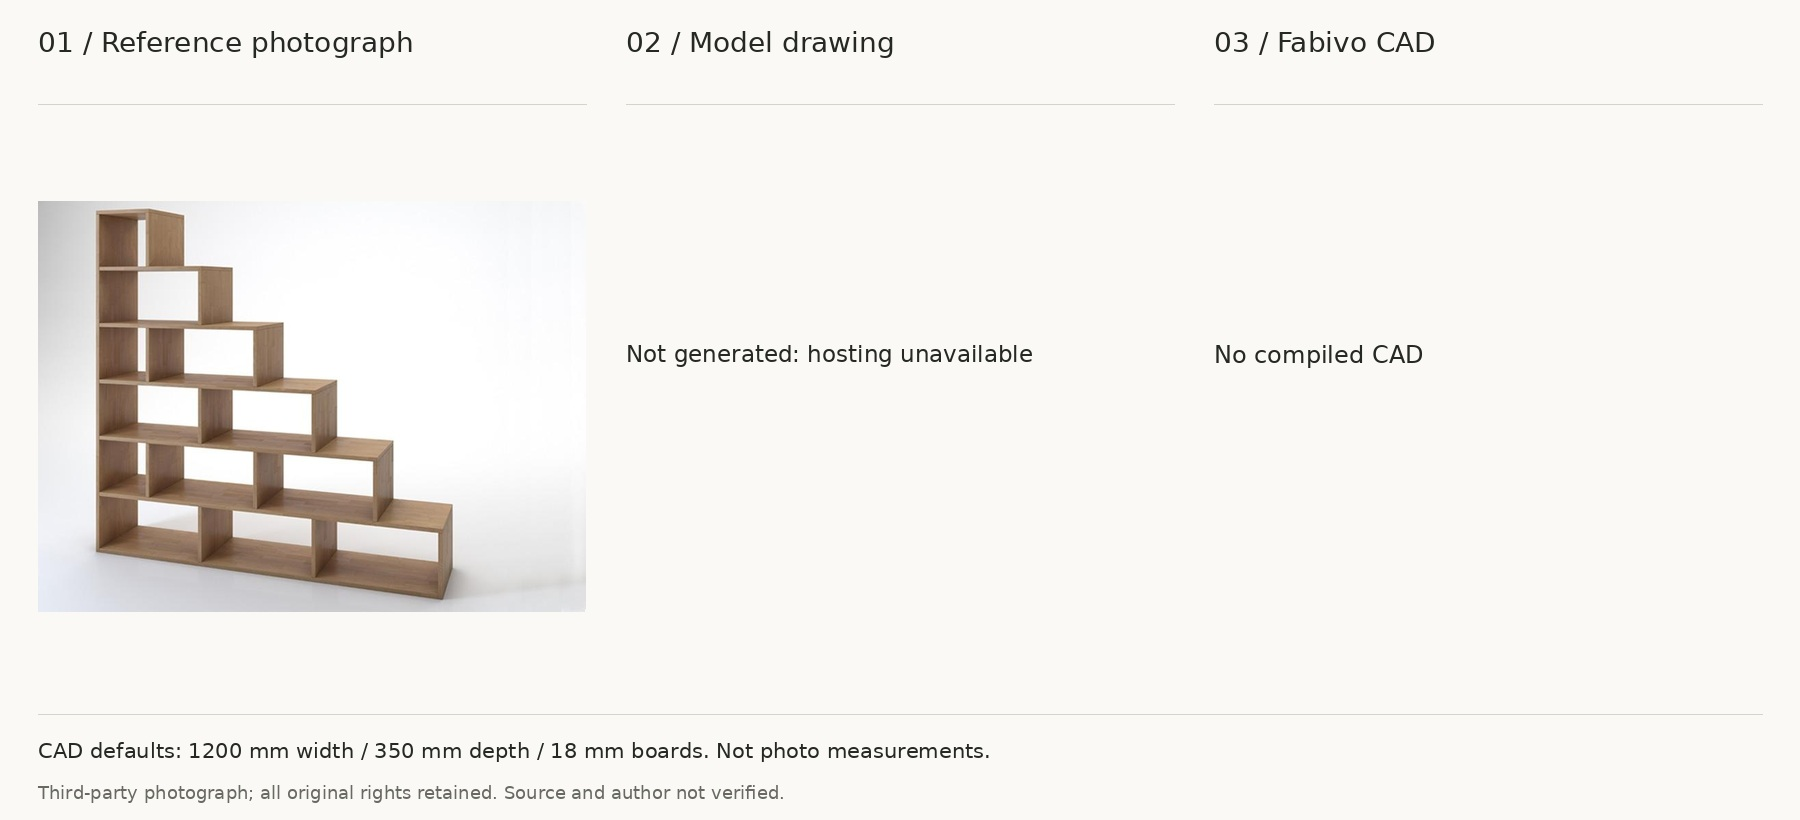
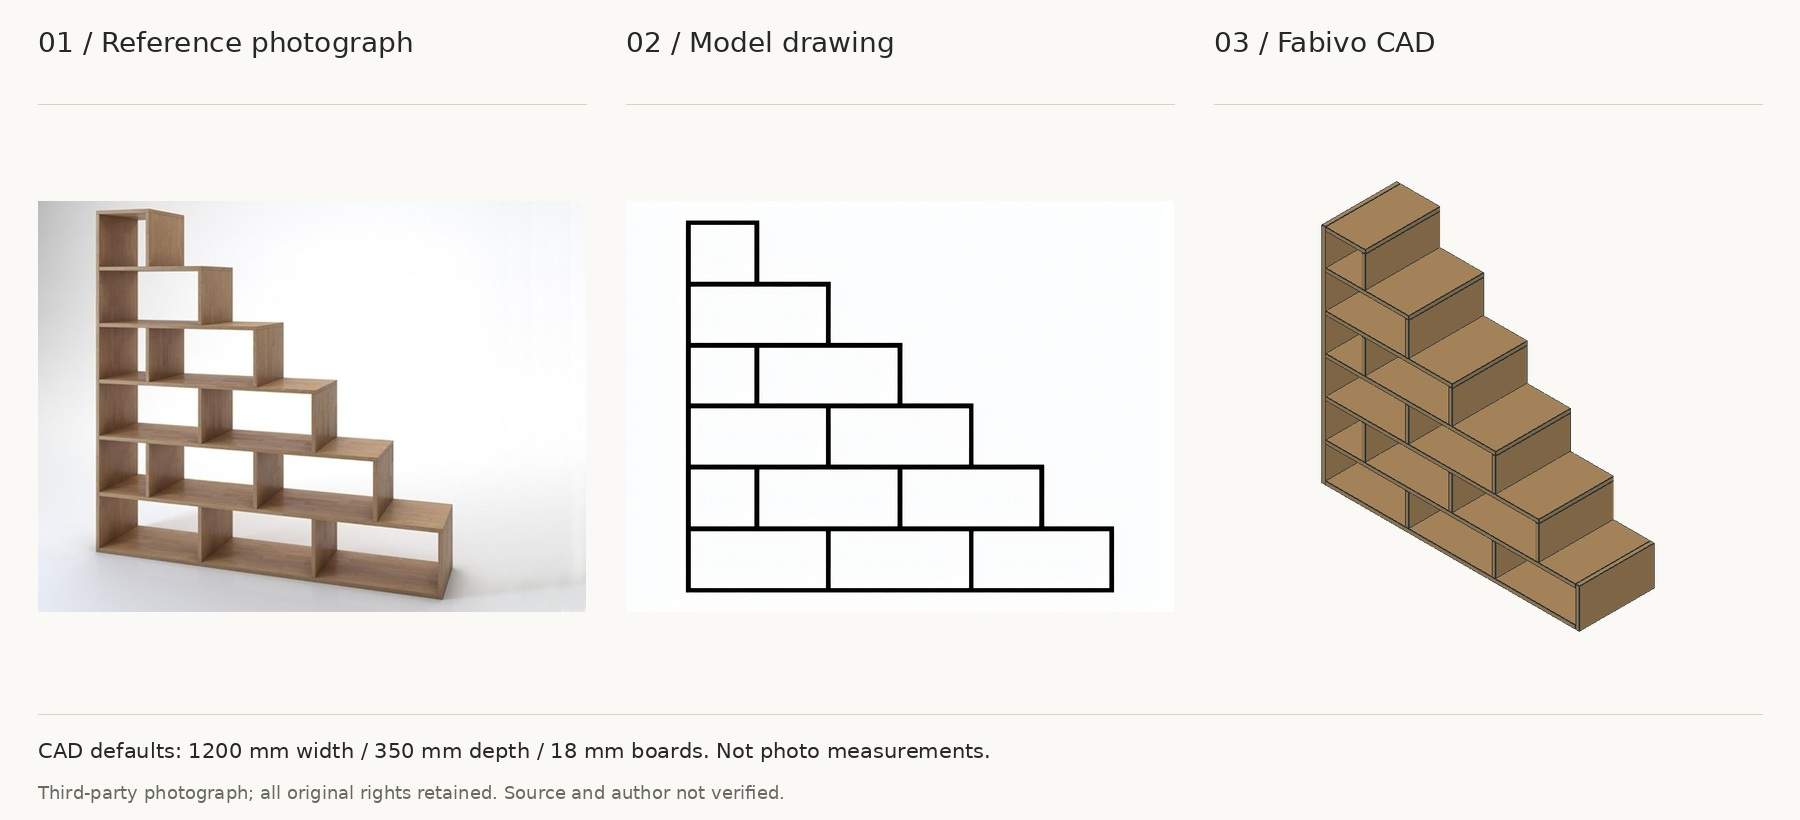
Complete six m11 examples with real CAD and preserve gallery exclusions

Changed region(s): [[0.6844, 0.2134, 0.9333, 0.7622], [0.3422, 0.3963, 0.6222, 0.7317], [0.3733, 0.2439, 0.4667, 0.3659]]

diff --git a/scripts/build_static_gallery.py b/scripts/build_static_gallery.py
@@ -42,7 +42,7 @@ def main():
 </style></head><body><main>
 <header><div class="eyebrow">Fabivo / image-to-CAD research</div><h1>From furniture photos to editable boards</h1><p>Predict a structural drawing. Read its boards. Compile actual CAD panels.</p><nav aria-label="Project links"><a href="https://github.com/Superpapotas/fabivo-boards">Code and experiments</a><a href="https://huggingface.co/Superpapotas1/fabivo-boards-image-lora-m11">m11 weights</a><a href="https://huggingface.co/datasets/Superpapotas1/fabivo-furniture-boards">Annotations</a><a href="https://fabivo.com">Fabivo</a></nav><p class="status">Saved results / no live inference / no GPU calls</p></header>
 <section aria-labelledby="compare-heading"><h2 id="compare-heading">GPT Image 2.5 vs Fabivo m11</h2><p>Two GPT image edits versus one direct fine-tuned drawing. Both real drawings enter the same Fabivo reader; no boards are manually repaired.</p><label for="case">Reference photograph</label><select id="case"><option value="boxed-centre-photo">Wall display with projecting centre box</option><option value="photo-built-in-display">Built-in display with unequal openings</option><option value="photo-staggered-console" selected>White staggered console</option></select><figure><a id="full" href="assets/gpt-comparison/photo-staggered-console.jpg" target="_blank" rel="noopener" aria-label="Open full-size comparison"><img id="comparison" src="assets/gpt-comparison/photo-staggered-console.jpg" width="1800" height="1250" alt="White staggered console: reference photograph, GPT Image 2.5 drawing and compiled CAD, and m11 drawing and compiled CAD."></a><figcaption id="caption" aria-live="polite">White staggered console. GPT uses a saved rerun after the first provider response failed. Select the figure to view it at full size.</figcaption></figure><p class="notice">Illustrative archived cases, not a controlled benchmark. Prompts, resolution and budgets differ. GPT: Azure gpt-image-2.5-sunburst, low quality, frontal candidate 1, two-step-v5. m11: published rank64 3000-EMA, Turbo10, 768 pixels, seed 0. CAD defaults: 1200 mm width, 350 mm depth, 18 mm boards. Not measured dimensions or a safety-approved cutting plan.</p><p><a href="https://github.com/Superpapotas/fabivo-boards/blob/main/docs/gpt-image-comparison.md">All three cases and exact protocol</a></p></section>
-<section aria-labelledby="examples-heading"><h2 id="examples-heading">The ten requested references</h2><p>Four cases have real saved m11 drawings and compiled documents. Six files have no new prediction. Example 04 repeats the staggered console with different encoding; it is not an independent unseen case.</p><p class="notice">Hugging Face refused ZeroGPU hosting for this account (HTTP 402). No paid fallback was used. This static gallery does not accept uploads or generate new images.</p><div class="grid">CARDS</div></section>
+<section aria-labelledby="examples-heading"><h2 id="examples-heading">The ten requested references</h2><p>All ten requested files have real saved m11 drawings and compiled documents. Six were generated in one bounded Modal batch; four reuse verified archived outputs. Example 04 repeats the staggered console with different encoding; it is not an independent unseen case.</p><p class="notice">Hugging Face refused ZeroGPU hosting for this account (HTTP 402). The owner then authorized one credit-limited Modal batch for the six missing predictions. This static gallery does not accept uploads, generate new images or run a persistent GPU server.</p><div class="grid">CARDS</div></section>
 <footer>Built with Qwen. Qwen-Image 2.1 and its adapter are non-commercial research assets under the Qwen RESEARCH LICENSE AGREEMENT. Third-party reference photos retain all original rights and are excluded from code and dataset license grants. Source authors are not verified for these ten references. <a href="https://github.com/Superpapotas/fabivo-boards/blob/main/docs/demo-examples.md">Rights and result status</a>.</footer>
 </main><script>
 const select=document.getElementById('case');
@@ -70,7 +70,7 @@ models:
 ---
 # Fabivo saved photo-to-CAD gallery
 
-Public saved examples, including GPT Image 2.5 versus m11. This Space is static: it does not run live inference, allocate GPUs, accept uploads or call paid APIs. ZeroGPU hosting was refused for the account with HTTP 402. No paid fallback was used.
+Public saved examples, including GPT Image 2.5 versus m11. This Space is static: it does not run live inference, allocate GPUs, accept uploads or call paid APIs. ZeroGPU hosting was refused for the account with HTTP 402. The owner later authorized one bounded Modal batch to generate six examples offline; the four other predictions are verified archived outputs. No live GPU backend is attached to this Space.
 
 [Code and experiments](https://github.com/Superpapotas/fabivo-boards) · [m11 weights](https://huggingface.co/Superpapotas1/fabivo-boards-image-lora-m11) · [comparison protocol](https://github.com/Superpapotas/fabivo-boards/blob/main/docs/gpt-image-comparison.md)
 
@@ -78,7 +78,7 @@ Real saved drawings enter the actual Fabivo reader and CAD renderer. No geometry
 
 Static presentation code: Apache-2.0 (`LICENSE-CODE`). **Built with Qwen.** Qwen-Image 2.1 and m11: non-commercial Qwen RESEARCH LICENSE AGREEMENT; see the model's LICENSE and NOTICE. Reference photographs: third-party rights retained; no Apache-2.0 or CC BY grant. Original sources/authors are not verified for all ten references. The Space license does not grant rights to these photos or to upstream model derivatives.
 ''')
-    print('Built static gallery; four compiled downloads, ten references, three GPT comparisons.')
+    print(f'Built static gallery; {sum(r["status"] == "ok" for r in generated)} compiled downloads, ten references, three GPT comparisons.')
 
 
 if __name__ == '__main__':

diff --git a/scripts/build_figures.py b/scripts/build_figures.py
@@ -12,6 +12,7 @@ import math
 from pathlib import Path
 from statistics import mean
 from PIL import Image, ImageDraw, ImageFont
+from gallery_policy import GALLERY_EXCLUDED
 
 ROOT = Path(__file__).resolve().parents[1]
 OUT = ROOT / 'assets/figures'
@@ -132,7 +133,7 @@ def main():
         'selection': selection, 'step_study': steps['summary'], 'standard_study': {k:v for k,v in standard.items() if k in ['n','seed','arms','caveat']},
         'conditional_common17': {arm:mean(r['scores'][arm]['struct_f1'] for r in common) for arm in standard['arms']},
         'setup': {k:manifest[k] for k in ['seeds','resolution','base_revision','turbo_revision','prompt','samplers','scheduler','torch','diffusers']},
-        'checkpoint': 'm11 rank64 3000-EMA (experimental; not released)',
+        'checkpoint': 'm11 rank64 3000-EMA (public adapter; reused-gold diagnostic)',
         'cases': [{'case':r['case'], 'medoid': {n:{'seed': int(Path(r[n]['pick']).name.rsplit('-s',1)[1]) if '-s' in Path(r[n]['pick']).name else 0, 'struct':r[n]['struct'],'board':r[n]['board']} for n in ['6','10','15']}, 'seed0':standard['cases'][i]['scores']} for i,r in enumerate(steps['cases'])]
     }
     (ROOT/'results/m11-verified.json').write_text(json.dumps(aggregate,indent=2)+'\n')
@@ -143,7 +144,7 @@ def main():
     chart('m11-step-study','m11 Turbo: four-seed step study','Same 19 gold cases, seeds 0–3, resolution 768; selected 3000-EMA checkpoint',['6 steps','10 steps','15 steps'], [('Medoid structural','struct',BLUE,[summary[n]['medoid_struct'] for n in ['6','10','15']]),('Mean single-seed structural','single',GREY,[summary[n]['single_seed_struct_mean'] for n in ['6','10','15']])], 'Mean seconds per drawing: '+ ' / '.join(f'{summary[n]["seconds_per_image"]:.2f}' for n in ['6','10','15']) + '; medoid requires four drawings.')
     arms = standard['arms']
     chart('m11-standard-turbo','m11: standard and Turbo, seed 0','Same checkpoint, 19 gold cases, resolution 768; no medoid',['Standard 28','Turbo 6','Turbo 10','Turbo 15'], [('Structural F1','struct',BLUE,[a['struct_f1'] for a in arms.values()]),('Board F1','board',GREY,[a['board_f1'] for a in arms.values()])], 'Traced: 17/19 standard; 19/19 each Turbo. Turbo changes weights AND schedule.')
-    gallery = ['# All 19 photo-to-CAD cases', '', 'Experimental m11 rank64 3000-EMA, Turbo10, resolution768, seeds0–3. The medoid picks one drawing by agreement among valid candidates, without gold labels. This is a reused gold diagnostic, not a test-selected production policy.', '', '[Open the static HTML case page](cases.html) locally for larger comparisons. Each figure shows the original third-party reference, the ACTUAL selected model drawing and the archived compiled document rendered by Fabivo. No geometry was corrected for presentation. Width1200 mm, depth350 mm and thickness18 mm are illustrative defaults, not photo measurements; the neutral finish is a display override.', '', 'References retain third-party rights and are not CC BY or Apache assets. [Sources and missing credits](comparison-sources.md). [Renderer and asset provenance](figure-provenance.md).', '']
+    gallery = ['# Photo-to-CAD gallery', '', '17 visual examples are shown. Two cases were removed from the example gallery at the owner\'s request. The benchmark and full score table still include all 19 cases; no scores were removed or recomputed.', '', 'Experimental m11 rank64 3000-EMA, Turbo10, resolution768, seeds0–3. The medoid picks one drawing by agreement among valid candidates, without gold labels. This is a reused gold diagnostic, not a test-selected production policy.', '', '[Open the static HTML case page](cases.html) locally for larger comparisons. Each figure shows the original third-party reference, the ACTUAL selected model drawing and the archived compiled document rendered by Fabivo. No geometry was corrected for presentation. Width1200 mm, depth350 mm and thickness18 mm are illustrative defaults, not photo measurements; the neutral finish is a display override.', '', 'References retain third-party rights and are not CC BY or Apache assets. [Sources and missing credits](comparison-sources.md). [Renderer and asset provenance](figure-provenance.md).', '']
     medoids = load(args.archive/'qwen21-m11-steps61015-gold/cons-10.json')
     assert [r['case'] for r in medoids] == [r['case'] for r in steps['cases']]
     for i, r in enumerate(steps['cases']):
@@ -152,6 +153,8 @@ def main():
         assert pick.parent == args.archive/'qwen21-m11-steps61015-gold'
         load(pick.with_name(pick.name+'-trace')/r['case']/'document-prod.json')
         name = f'{i+1:02d}-{r["case"]}'
+        if r['case'] in GALLERY_EXCLUDED:
+            continue
         gallery.extend([f'## {i+1:02d} / {r["case"]}', '', f'![Reference photograph, actual selected drawing and actual Fabivo CAD for {r["case"]}.](../assets/comparisons/{name}.png)', ''])
     gallery += ['## All-case scores', '', 'Structural / board F1. Main means include all 19 cases and failures. Full precision and seed-0 standard/Turbo scores are in [the verified JSON](../results/m11-verified.json).', '', '| Case | Turbo6 medoid | Turbo10 medoid | Turbo15 medoid | Standard28 seed0 |', '|---|---:|---:|---:|---:|']
     for i,r in enumerate(steps['cases']):

diff --git a/scripts/build_demo_examples.py b/scripts/build_demo_examples.py
@@ -106,7 +106,7 @@ def main():
                         place(canvas, artifact, 38+j*588, 130, 548, 554)
                     record[key.replace('_path','SHA256')] = hashlib.sha256(path.read_bytes()).hexdigest()
                 record['documentSHA256'] = hashlib.sha256(document_path.read_bytes()).hexdigest()
-                record.update(model='m11', schedule='Turbo10', seed=0, steps=10, renderer='Fabivo')
+                record.update(model='m11', schedule='Turbo10', seed=0, steps=10, renderer='Fabivo', generation_origin=result.get('origin', 'saved-actual-inference'))
             else:
                 message = 'Not generated: hosting unavailable' if result.get('origin') == 'not-generated' else 'Generation or conversion failed'
                 text(draw, (626, 340), message, 23)
@@ -118,7 +118,7 @@ def main():
             canvas.save(out/comparison, quality=94)
             record['comparison'] = comparison
             if result['status'] == 'ok':
-                outcome = 'm11 / Turbo10 / seed 0. Actual cached drawing and compiled Fabivo panels; no corrected geometry.'
+                outcome = 'm11 / Turbo10 / seed 0. Actual saved drawing and compiled Fabivo panels; no corrected geometry.'
             elif result.get('origin') == 'not-generated':
                 outcome = 'Not generated: Hugging Face denied ZeroGPU hosting (HTTP 402). No GPU call was made and no result was substituted. This is a hosting limit, not a measured model failure.'
             else:

diff --git a/scripts/build_showcase.py b/scripts/build_showcase.py
@@ -13,8 +13,7 @@ ROOT = Path(__file__).resolve().parents[1]
 FONT = '/usr/share/fonts/truetype/dejavu/DejaVuSans.ttf'
 INK = '#262824'
 BG = '#faf9f6'
-# Presentation-only exclusions requested by the owner. Keep all benchmark scores.
-GALLERY_EXCLUDED = {'real-console028', 'real-console032'}
+from gallery_policy import GALLERY_EXCLUDED
 
 
 def text(draw, xy, value, size, color=INK):

diff --git a/scripts/gallery_policy.py b/scripts/gallery_policy.py
@@ -1,0 +1,2 @@
+"""Owner-requested presentation exclusions; never filter benchmark scores."""
+GALLERY_EXCLUDED = frozenset({'real-console028', 'real-console032'})

diff --git a/docs/demo-examples.md b/docs/demo-examples.md
@@ -10,61 +10,61 @@ The photographs remain third-party material. Sources and authors are not verifie
 
 ![Stepped open bookcase: reference, model drawing and CAD outcome.](../assets/demo-examples/example-01-comparison.jpg)
 
-Not generated: Hugging Face denied ZeroGPU hosting (HTTP 402). No GPU call was made and no result was substituted. This is a hosting limit, not a measured model failure.
+m11 / Turbo10 / seed 0. Actual saved drawing and compiled Fabivo panels; no corrected geometry.
 
 ## 02 / Open shelving with projecting shelves
 
 ![Open shelving with projecting shelves: reference, model drawing and CAD outcome.](../assets/demo-examples/example-02-comparison.jpg)
 
-Not generated: Hugging Face denied ZeroGPU hosting (HTTP 402). No GPU call was made and no result was substituted. This is a hosting limit, not a measured model failure.
+m11 / Turbo10 / seed 0. Actual saved drawing and compiled Fabivo panels; no corrected geometry.
 
 ## 03 / Open shelf with staggered dividers
 
 ![Open shelf with staggered dividers: reference, model drawing and CAD outcome.](../assets/demo-examples/example-03-comparison.jpg)
 
-Not generated: Hugging Face denied ZeroGPU hosting (HTTP 402). No GPU call was made and no result was substituted. This is a hosting limit, not a measured model failure.
+m11 / Turbo10 / seed 0. Actual saved drawing and compiled Fabivo panels; no corrected geometry.
 
 ## 04 / White staggered console
 
 ![White staggered console: reference, model drawing and CAD outcome.](../assets/demo-examples/example-04-comparison.jpg)
 
-Not generated: Hugging Face denied ZeroGPU hosting (HTTP 402). No GPU call was made and no result was substituted. This is a hosting limit, not a measured model failure.
+m11 / Turbo10 / seed 0. Actual saved drawing and compiled Fabivo panels; no corrected geometry.
 
 ## 05 / Wood frame with black stepped shelves
 
 ![Wood frame with black stepped shelves: reference, model drawing and CAD outcome.](../assets/demo-examples/example-05-comparison.jpg)
 
-Not generated: Hugging Face denied ZeroGPU hosting (HTTP 402). No GPU call was made and no result was substituted. This is a hosting limit, not a measured model failure.
+m11 / Turbo10 / seed 0. Actual saved drawing and compiled Fabivo panels; no corrected geometry.
 
 ## 06 / Wood TV console with stepped top
 
 ![Wood TV console with stepped top: reference, model drawing and CAD outcome.](../assets/demo-examples/example-06-comparison.jpg)
 
-Not generated: Hugging Face denied ZeroGPU hosting (HTTP 402). No GPU call was made and no result was substituted. This is a hosting limit, not a measured model failure.
+m11 / Turbo10 / seed 0. Actual saved drawing and compiled Fabivo panels; no corrected geometry.
 
 ## 07 / Wall display with projecting centre box
 
 ![Wall display with projecting centre box: reference, model drawing and CAD outcome.](../assets/demo-examples/boxed-centre-photo-comparison.jpg)
 
-m11 / Turbo10 / seed 0. Actual cached drawing and compiled Fabivo panels; no corrected geometry.
+m11 / Turbo10 / seed 0. Actual saved drawing and compiled Fabivo panels; no corrected geometry.
 
 ## 08 / Built-in display with unequal openings
 
 ![Built-in display with unequal openings: reference, model drawing and CAD outcome.](../assets/demo-examples/photo-built-in-display-comparison.jpg)
 
-m11 / Turbo10 / seed 0. Actual cached drawing and compiled Fabivo panels; no corrected geometry.
+m11 / Turbo10 / seed 0. Actual saved drawing and compiled Fabivo panels; no corrected geometry.
 
 ## 09 / White staggered console
 
 ![White staggered console: reference, model drawing and CAD outcome.](../assets/demo-examples/photo-staggered-console-comparison.jpg)
 
-m11 / Turbo10 / seed 0. Actual cached drawing and compiled Fabivo panels; no corrected geometry.
+m11 / Turbo10 / seed 0. Actual saved drawing and compiled Fabivo panels; no corrected geometry.
 
 ## 10 / Three-row shelf with offset dividers
 
 ![Three-row shelf with offset dividers: reference, model drawing and CAD outcome.](../assets/demo-examples/real-open041-comparison.jpg)
 
-m11 / Turbo10 / seed 0. Actual cached drawing and compiled Fabivo panels; no corrected geometry.
+m11 / Turbo10 / seed 0. Actual saved drawing and compiled Fabivo panels; no corrected geometry.
 
 The reader uses assigned defaults of 1200 mm width, 350 mm depth and 18 mm boards. These are not calibrated measurements. Hidden construction and build safety are not established.
 

diff --git a/hf/m11/README.md b/hf/m11/README.md
@@ -29,7 +29,7 @@ This is the rank64 EMA adapter from `qwen21-m11-r64/ckpt-3000-ema`. It redraws a
 
 [All three paired examples and protocol](../../docs/gpt-image-comparison.md) · [Ten requested references and available results](../../docs/demo-examples.md) · [Browse the saved gallery](https://huggingface.co/spaces/Superpapotas1/fabivo-boards-demo)
 
-The gallery is static and has no live inference. ZeroGPU hosting was denied for this account; no paid fallback or GPU quota was used. Six requested inputs remain ungenerated.
+The gallery is static and has no live inference. All ten requested files now have actual m11 drawings and compiled CAD documents: six from one owner-authorized, credit-limited Modal batch and four from verified archived runs. ZeroGPU hosting was denied; no permanent GPU server is attached.
 
 m11 is the project's only public model. Earlier m10 and VLM weights are kept privately, not deleted. Historical benchmark comparisons remain available.
 
@@ -63,7 +63,7 @@ python3 infer.py authorized-photo.jpg boards.png --steps 10
 sha256sum lora.safetensors
 ```
 
-The code needs compatible CUDA hardware and sufficient model memory. No external paid API is needed. This release was verified by public download and hash, not by a new GPU run. Free ZeroGPU hosting was requested for `Superpapotas1/fabivo-boards-demo`, but the server refused creation with HTTP 402 and an account-age/PRO/community-grant message. The linked gallery shows saved results only; there is **no verified live GPU inference**. No paid fallback was used.
+The code needs compatible CUDA hardware and sufficient model memory. No external paid API is needed. The published checkpoint was verified by public download and hash. Its exact pinned-base/Turbo10 load contract was also run on six authorized photos in a bounded L40S batch; all six returned ten real denoising steps and compiled CAD documents. This is a demonstration, not an independent accuracy test. Free ZeroGPU hosting was requested for `Superpapotas1/fabivo-boards-demo`, but the server refused creation with HTTP 402 and an account-age/PRO/community-grant message. The linked gallery shows saved results only; there is **no live GPU inference**. A later owner-authorized Modal batch filled the six missing examples using credits, with no permanent backend.
 
 ## License, changes and rights
 

diff --git a/README.md b/README.md
@@ -18,7 +18,7 @@ A product photograph shows perspective, books, doors and shadows. A furniture ed
 
 [All three paired examples and exact protocol](docs/gpt-image-comparison.md) · [the ten requested references and available m11 results](docs/demo-examples.md) · [browse the saved gallery](https://huggingface.co/spaces/Superpapotas1/fabivo-boards-demo)
 
-The gallery runs without GPU inference. Live ZeroGPU hosting was refused for this account (HTTP 402); no paid fallback was used. Six requested inputs have no new generation and are marked accordingly.
+The gallery shows ten real saved predictions and compiled CAD documents; it does not run live inference. After ZeroGPU hosting was refused (HTTP 402), the owner authorized one bounded Modal batch to generate the six missing examples. Four other predictions reuse verified archived outputs. There is no permanent GPU server.
 
 ## The engineering problem
 
